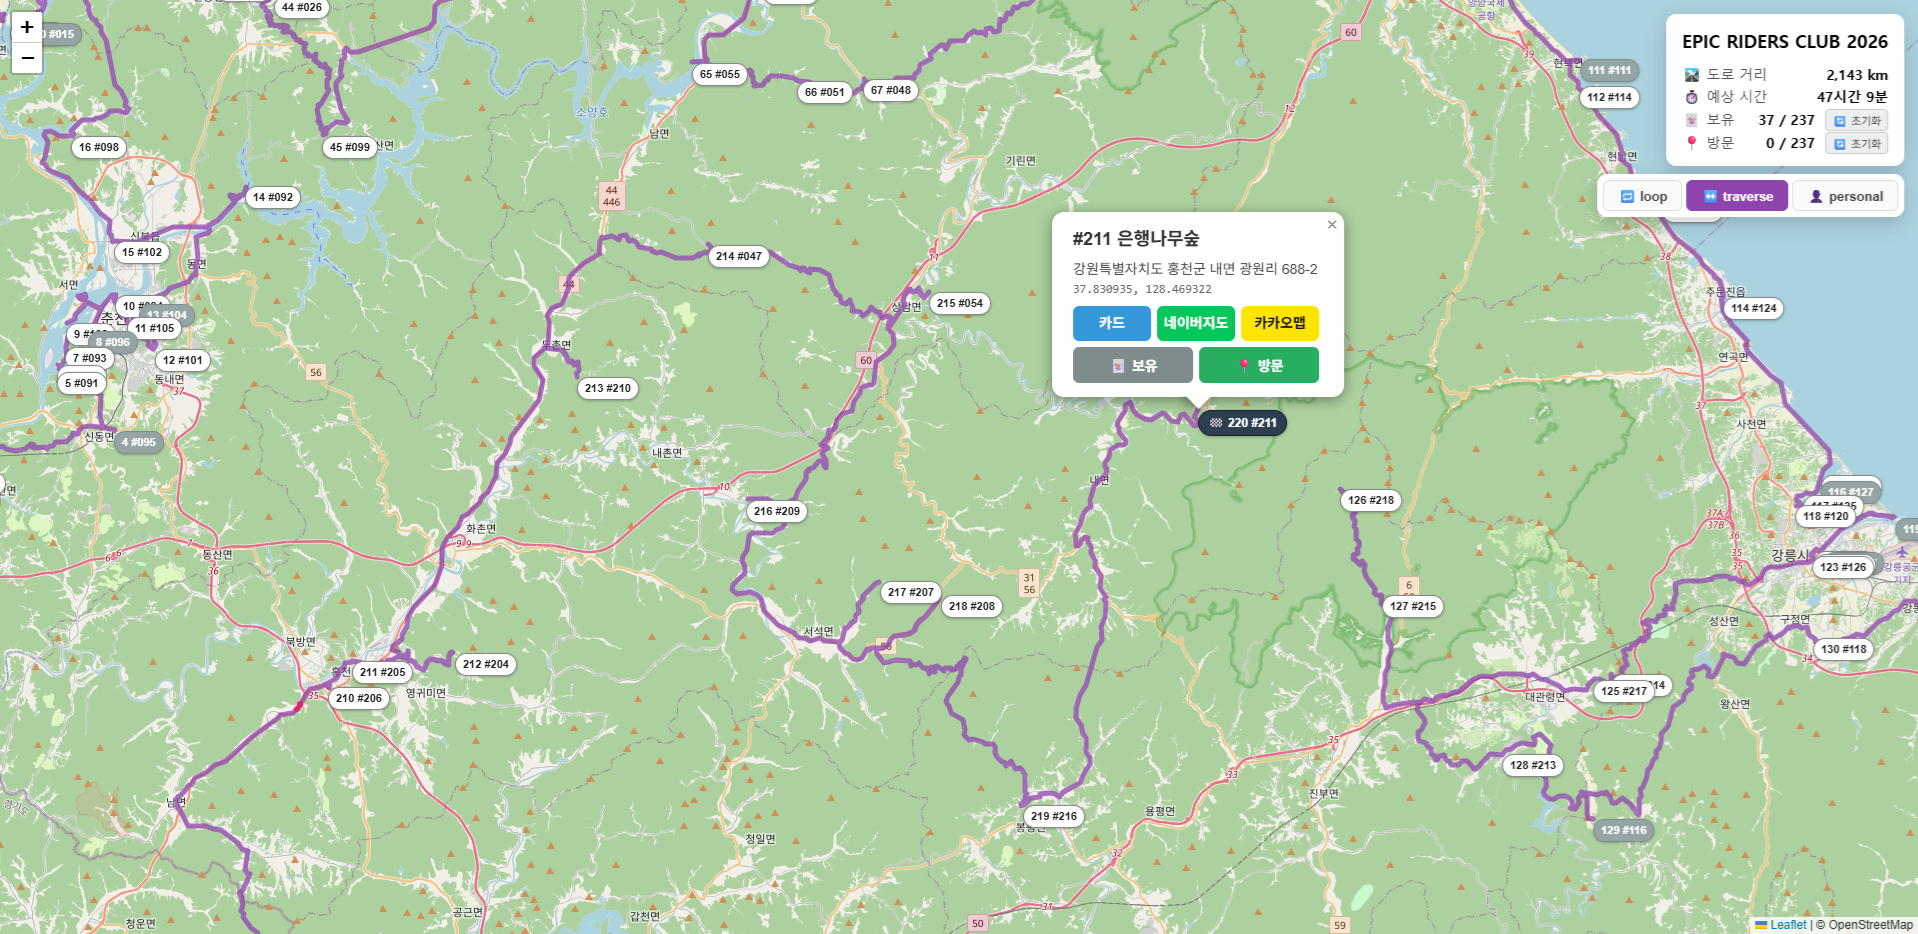
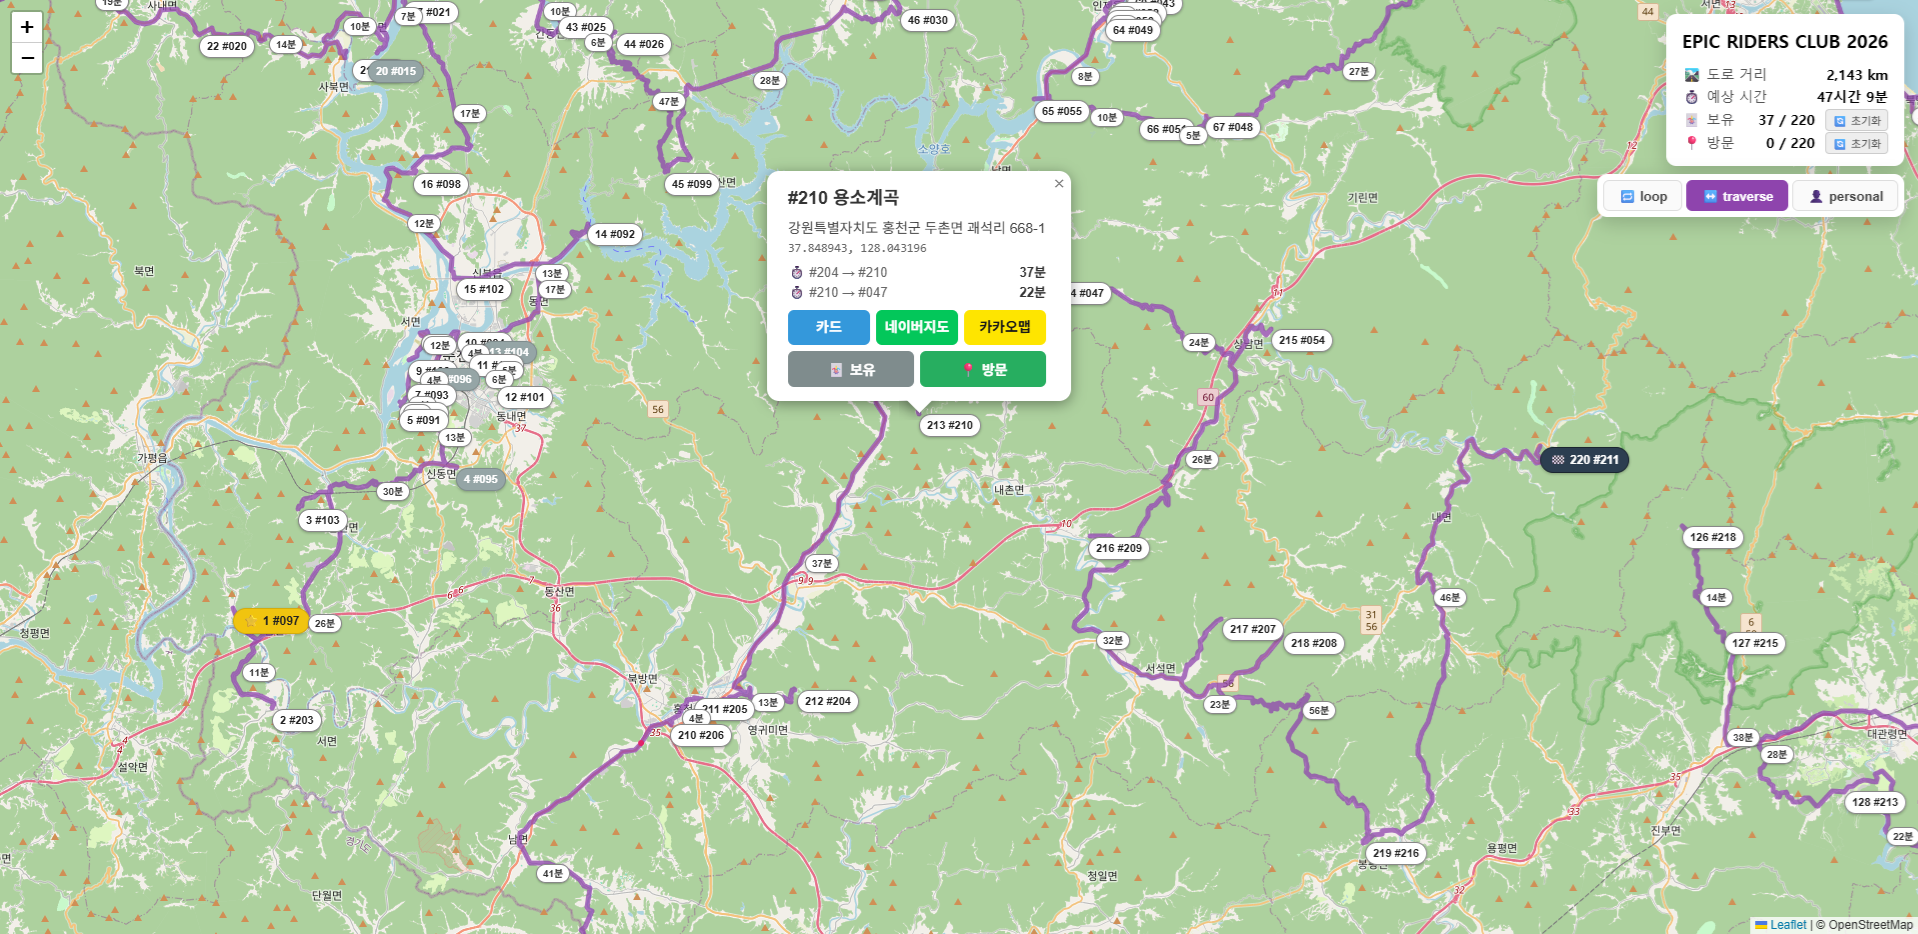
feat: display per-leg duration between card waypoints
Each card marker's popup shows the prev/next leg duration alongside
card numbers (e.g. "#014 -> #024 : 12 min"), and a small chip renders
at each leg's polyline midpoint. The chip is zoom-gated (>= 12) so
220-leg loops stay readable in mountainous regions.

stage_duration now produces per-leg
{from_idx, to_idx, distance_m, duration_s, mid_lat, mid_lng} entries
on each route. Midpoint is the path node nearest cumulative-length/2.
Unreachable legs persist with mid_lat=None so the frontend renders a
distinct "unreachable" label instead of conflating them with
0-duration short legs.

Frontend popup rows and chip layer use the el() helper (no innerHTML).
Legacy routes_motorcycle.json without the legs field renders
gracefully -- rows are skipped and the chip layer is null.

Tests added: legs length invariant (closing leg counted for loop) and
unreachable graceful path.

assets/preview.png updated to show the new popup rows.

diff --git a/build_html.py b/build_html.py
@@ -82,8 +82,16 @@ HTML = r'''<!DOCTYPE html>
  .popup-card .actions button.own.active{background:#34495e}
  .popup-card .actions button.visit{background:#27ae60}
  .popup-card .actions button.visit.active{background:#196f3d}
+ .popup-card .legs{margin:6px 0;font-size:13px;color:#333;line-height:1.5}
+ .popup-card .legs .leg-row{display:flex;justify-content:space-between;gap:8px}
+ .popup-card .legs .leg-lbl{color:#666}
+ .popup-card .legs .leg-val{font-weight:600;font-variant-numeric:tabular-nums}
  .v-popup{font-size:13px;line-height:1.5;min-width:140px}
  .v-popup b{color:#e91e63}
+ .leg-chip{background:#fff;border:1px solid #888;border-radius:10px;
+           padding:1px 6px;font-size:10px;font-weight:600;color:#333;
+           white-space:nowrap;box-shadow:0 1px 2px rgba(0,0,0,.25);
+           pointer-events:none;font-variant-numeric:tabular-nums}
 </style>
 </head>
 <body>
@@ -115,6 +123,10 @@ L.tileLayer('https://{s}.tile.openstreetmap.org/{z}/{x}/{y}.png', {maxZoom: 18, 
 
 let polyLayer = null;
 let vLayer = null;
+let chipLayer = null;
+// Tuned to 12: at zoom 11 (~76m/px @ lat 38°) 220-leg loops have midpoints
+// that overlap in mountainous regions (설악·태백). 12 (~38m/px) clears those.
+const CHIP_MIN_ZOOM = 12;
 const markerByIdx = new Map();
 
 const visited = new Set(JSON.parse(localStorage.getItem(STORAGE_KEY_VISITED) || '[]'));
@@ -139,8 +151,36 @@ function decodePolyline(str){
 
 function fmtKm(m){ return (m/1000).toFixed(0).replace(/\B(?=(\d{3})+(?!\d))/g, ',') + ' km'; }
 function fmtTime(s){ const h=Math.floor(s/3600), m=Math.floor((s%3600)/60); return h+'시간 '+m+'분'; }
+function fmtLegTime(s){
+  // Short leg duration: "0분", "12분", "1시간 5분". <30s rounds to 0분 (no leg / unreachable).
+  if (!s || s < 30) return '0분';
+  const m = Math.round(s/60);
+  if (m < 60) return m + '분';
+  const h = Math.floor(m/60), rem = m % 60;
+  return rem === 0 ? (h + '시간') : (h + '시간 ' + rem + '분');
+}
 function pad3(n){ return String(n).padStart(3, '0'); }
 function cardLabel(c){ return c >= 221 ? ('EPIC ' + pad3(c - 220)) : ('#' + pad3(c)); }
+
+function legsAroundCard(idx){
+  // Returns {prev, next} legs adjacent to this card on currentRoute.
+  // - loop: closing leg is "prev" for the start card; outgoing is "next".
+  // - traverse/personal: start has prev=null; end has next=null.
+  // Assumes each idx appears at most once in order, except the loop closing
+  // duplicate (order[0] == order[N-1]). TSP guarantees this today; relax with
+  // a lastPos branch if routes ever revisit cards.
+  const r = ROUTES[currentRoute];
+  if (!r || !r.legs || !r.legs.length) return {prev: null, next: null};
+  const order = r.order;
+  const isLoop = order.length >= 2 && order[0] === order[order.length-1];
+  const firstPos = order.indexOf(idx);
+  if (firstPos < 0) return {prev: null, next: null};
+  let prev = null, next = null;
+  if (firstPos > 0) prev = r.legs[firstPos - 1];
+  else if (isLoop) prev = r.legs[r.legs.length - 1];
+  if (firstPos < order.length - 1) next = r.legs[firstPos];
+  return {prev, next};
+}
 
 // DOM builder helper — same contract as the live builder UI's el():
 // every text value goes through textContent, every attribute via setAttribute.
@@ -199,10 +239,23 @@ function makePopup(idx){
   const naverWebUrl = 'https://map.naver.com/p/search/' + encodeURIComponent(s.addr || s.name || '');
   const kakaoUrl = 'https://map.kakao.com/link/to/'+encodeURIComponent(s.addr||'')+','+s.lat+','+s.lng;
   const cardUrl = 'https://epic-riders.cnr-korea.com/epicrideclub/find/address/';
+  const {prev, next} = legsAroundCard(idx);
+  // Unreachable legs (backend marks mid_lat=null) get a distinct "도달불가"
+  // label so they don't look like a near-zero duration. Reachable legs use
+  // fmtLegTime — including short ones that round down to "0분".
+  const legRow = leg => el('div', {class:'leg-row'}, [
+    el('span', {class:'leg-lbl'}, '⏱️ ' + cardLabel(SPOTS[leg.from_idx].card)
+                                  + ' → ' + cardLabel(SPOTS[leg.to_idx].card)),
+    el('span', {class:'leg-val'}, leg.mid_lat == null ? '도달불가' : fmtLegTime(leg.duration_s)),
+  ]);
+  const legRows = [];
+  if (prev) legRows.push(legRow(prev));
+  if (next) legRows.push(legRow(next));
   return el('div', {class:'popup-card'}, [
     el('h3', null, cardLabel(s.card) + ' ' + (s.name || '')),
     el('div', {class:'addr'}, s.addr || ''),
     el('div', {class:'coords'}, s.lat.toFixed(6) + ', ' + s.lng.toFixed(6)),
+    legRows.length ? el('div', {class:'legs'}, legRows) : null,
     el('div', {class:'links'}, [
       el('a', {href: cardUrl, target: '_blank'}, '카드'),
       el('a', {
@@ -263,15 +316,45 @@ window.resetVisited = function(){
   visited.clear(); saveVisited(); refreshAllMarkers();
 };
 
+function buildChipLayer(r){
+  // One non-interactive divIcon marker per leg, anchored at the leg midpoint.
+  // Legs with no midpoint (unreachable) or <30s duration are skipped.
+  if (!r || !r.legs) return null;
+  const group = L.featureGroup();
+  r.legs.forEach(leg => {
+    if (leg.mid_lat == null || leg.mid_lng == null) return;
+    if (!leg.duration_s || leg.duration_s < 30) return;
+    const chip = L.divIcon({
+      className: '',
+      html: el('div', {class:'leg-chip'}, fmtLegTime(leg.duration_s)),
+      iconSize: null,
+    });
+    L.marker([leg.mid_lat, leg.mid_lng], {icon: chip, interactive: false, keyboard: false})
+      .addTo(group);
+  });
+  return group;
+}
+
+function syncChipVisibility(){
+  if (!chipLayer) return;
+  const want = map.getZoom() >= CHIP_MIN_ZOOM;
+  const has = map.hasLayer(chipLayer);
+  if (want && !has) chipLayer.addTo(map);
+  else if (!want && has) map.removeLayer(chipLayer);
+}
+
 function applyRoute(key){
   if (!ROUTES[key]) return;
   currentRoute = key;
   const r = ROUTES[key];
   if (polyLayer) { map.removeLayer(polyLayer); polyLayer = null; }
   if (vLayer)    { map.removeLayer(vLayer);    vLayer = null; }
+  if (chipLayer) { map.removeLayer(chipLayer); chipLayer = null; }
   const pts = decodePolyline(r.polyline);
   const color = ROUTE_COLOR[key] || '#666';
   polyLayer = L.polyline(pts, {color, weight:5, opacity:.75}).addTo(map);
+  chipLayer = buildChipLayer(r);
+  syncChipVisibility();
 
   const vs = VIOLATIONS[key] || [];
   if (vs.length){
@@ -353,6 +436,7 @@ function repositionToggle(){
 }
 new ResizeObserver(repositionToggle).observe(document.getElementById('stats'));
 window.addEventListener('load', repositionToggle);
+map.on('zoomend', syncChipVisibility);
 
 window.addEventListener('storage', e => {
   if (e.key === STORAGE_KEY_VISITED) {

diff --git a/tests/test_phase4.py b/tests/test_phase4.py
@@ -81,7 +81,7 @@ def test_build_routes_attaches_unreachable_diagnostics(monkeypatch, tmp_path):
     monkeypatch.setattr(build_motorcycle, 'stage_tsp',
                         lambda spots, m, p, progress_cb=None: {'loop': {'order': [0, 1, 0], 'distance_m': 200}})
     monkeypatch.setattr(build_motorcycle, 'stage_poly', lambda r, nc, progress_cb=None: r)
-    monkeypatch.setattr(build_motorcycle, 'stage_duration', lambda r, e, progress_cb=None: r)
+    monkeypatch.setattr(build_motorcycle, 'stage_duration', lambda r, e, nc, progress_cb=None: r)
     monkeypatch.setattr(build_motorcycle, 'get_spots',
                         lambda extras=(): [{'card': 1, 'lat': 0.0, 'lng': 0.0},
                                            {'card': 2, 'lat': 1.0, 'lng': 1.0}])
@@ -142,3 +142,81 @@ def test_spots_cache_key_changes_on_coord_edit():
     spots[0]['lat'] = 37.01
     k2 = build_motorcycle._spots_cache_key(spots)
     assert k1 != k2
+
+
+# ---------- stage_duration: per-leg invariants ----------
+# Two regressions covered:
+#   1. legs count == len(order) - 1 (loop's closing leg included).
+#   2. Unreachable leg (pred=-9999) yields a graceful 0-filled entry with
+#      mid_lat/mid_lng=None — frontend keys off mid_lat to render '도달불가'.
+
+def _make_duration_fixture(tmp_path, monkeypatch, pred_array, src_nodes_array):
+    """Wire a fake DIJKSTRA_NPZ at tmp_path with the given pred / snapped arrays."""
+    import numpy as np
+    dijkstra_npz = tmp_path / 'd.npz'
+    np.savez(dijkstra_npz, pred=pred_array, snapped=src_nodes_array)
+    monkeypatch.setattr(build_motorcycle, 'DIJKSTRA_NPZ', dijkstra_npz)
+
+
+# Linear 3-node graph 0-1-2 (bidirectional). All edges 1000m @ 60 km/h
+# → 60s / leg. No direct 0-2 edge: 0↔2 must traverse via node 1.
+_LINEAR_NODE_COORDS = [[37.0, 127.0], [37.1, 127.1], [37.2, 127.2]]
+_LINEAR_EDGES = [
+    [0, 1, 1000.0, 60.0], [1, 0, 1000.0, 60.0],
+    [1, 2, 1000.0, 60.0], [2, 1, 1000.0, 60.0],
+]
+
+
+def test_stage_duration_legs_length_matches_order(monkeypatch, tmp_path):
+    import numpy as np
+    pred = np.array([
+        [-9999, 0,     1    ],
+        [1,     -9999, 1    ],
+        [1,     2,     -9999],
+    ], dtype=np.int32)
+    src_nodes = np.array([0, 1, 2], dtype=np.int64)
+    _make_duration_fixture(tmp_path, monkeypatch, pred, src_nodes)
+
+    routes = {
+        'loop':     {'order': [0, 1, 2, 0], 'distance_m': 4000},
+        'traverse': {'order': [0, 1, 2],    'distance_m': 2000},
+    }
+    out = build_motorcycle.stage_duration(routes, _LINEAR_EDGES, _LINEAR_NODE_COORDS)
+
+    assert len(out['loop']['legs']) == 3       # closing leg counted
+    assert len(out['traverse']['legs']) == 2   # open path
+    for r in (out['loop'], out['traverse']):
+        assert len(r['legs']) == len(r['order']) - 1
+        for leg in r['legs']:
+            assert leg['mid_lat'] is not None
+            assert leg['distance_m'] > 0
+            assert leg['duration_s'] > 0
+
+
+def test_stage_duration_unreachable_leg_graceful(monkeypatch, tmp_path):
+    import numpy as np
+    # pred[2][0] = -9999 → node 0 is unreachable starting from node 2.
+    pred = np.array([
+        [-9999, 0,     1    ],
+        [1,     -9999, 1    ],
+        [-9999, 2,     -9999],
+    ], dtype=np.int32)
+    src_nodes = np.array([0, 1, 2], dtype=np.int64)
+    _make_duration_fixture(tmp_path, monkeypatch, pred, src_nodes)
+
+    routes = {'loop': {'order': [0, 1, 2, 0], 'distance_m': 4000}}
+    out = build_motorcycle.stage_duration(routes, _LINEAR_EDGES, _LINEAR_NODE_COORDS)
+    legs = out['loop']['legs']
+
+    assert len(legs) == 3
+    closing = legs[2]
+    assert (closing['from_idx'], closing['to_idx']) == (2, 0)
+    assert closing['mid_lat'] is None
+    assert closing['mid_lng'] is None
+    assert closing['distance_m'] == 0.0
+    assert closing['duration_s'] == 0.0
+    # Reachable legs unaffected.
+    assert legs[0]['mid_lat'] is not None
+    assert legs[1]['mid_lat'] is not None
+    # Route duration_s only sums reachable legs (2 × 60s).
+    assert out['loop']['duration_s'] == pytest.approx(120.0, rel=0.01)

diff --git a/build_motorcycle.py b/build_motorcycle.py
@@ -620,7 +620,7 @@ def stage_poly(routes, node_coords, progress_cb=None):
     return routes
 
 
-def stage_duration(routes, edges, progress_cb=None):
+def stage_duration(routes, edges, node_coords, progress_cb=None):
     print('\n=== stage 6: duration ===')
     arrs = np.load(DIJKSTRA_NPZ)
     pred = arrs['pred']
@@ -631,8 +631,15 @@ def stage_duration(routes, edges, progress_cb=None):
         u, v, length, speed = edge[0], edge[1], edge[2], edge[3]
         edge_info[(u, v)] = (length, speed)
 
-    def path_duration_s(pred_row, src, dst):
-        total = 0.0
+    def path_leg_details(pred_row, src, dst):
+        """Walk predecessor chain dst->src, collect path nodes + per-edge length.
+
+        Returns (distance_m, duration_s, mid_lat, mid_lng) or None when
+        unreachable. Midpoint is the path node nearest to cumulative-length/2.
+        """
+        nodes_rev = [int(dst)]
+        seg_lengths_rev = []
+        total_dur = 0.0
         cur = int(dst)
         while cur != src and cur >= 0:
             nxt = int(pred_row[cur])
@@ -640,20 +647,55 @@ def stage_duration(routes, edges, progress_cb=None):
                 return None
             if (nxt, cur) in edge_info:
                 length, speed = edge_info[(nxt, cur)]
-                total += length / (speed * 1000.0 / 3600.0)
+                seg_lengths_rev.append(length)
+                total_dur += length / (speed * 1000.0 / 3600.0)
+            else:
+                seg_lengths_rev.append(0.0)
+            nodes_rev.append(nxt)
             cur = nxt
-        return total if cur == src else None
+        if cur != src:
+            return None
+        nodes = list(reversed(nodes_rev))
+        seg_lengths = list(reversed(seg_lengths_rev))
+        total_len = sum(seg_lengths)
+        if total_len <= 0 or len(nodes) < 2:
+            mid_idx = len(nodes) // 2
+        else:
+            half = total_len / 2.0
+            acc = 0.0
+            mid_idx = 0
+            for i, L in enumerate(seg_lengths):
+                if acc + L >= half:
+                    mid_idx = i if (half - acc) < ((acc + L) - half) else i + 1
+                    break
+                acc += L
+            else:
+                # Defensive — unreachable in practice: sum(seg_lengths) == total_len,
+                # so acc + L >= half must trigger by the final iteration.
+                mid_idx = len(nodes) - 1
+        lat, lng = node_coords[nodes[mid_idx]]
+        return total_len, total_dur, float(lat), float(lng)
 
     for key, r in routes.items():
         order = r['order']
+        legs = []
         total_s = 0.0
         for i in range(len(order)-1):
             a, b = order[i], order[i+1]
-            d = path_duration_s(pred[a], int(src_nodes[a]), int(src_nodes[b]))
-            if d is None:
+            result = path_leg_details(pred[a], int(src_nodes[a]), int(src_nodes[b]))
+            if result is None:
                 print(f'  [{key}] leg {a}->{b}: unreachable')
+                legs.append({'from_idx': a, 'to_idx': b, 'distance_m': 0.0,
+                             'duration_s': 0.0, 'mid_lat': None, 'mid_lng': None})
                 continue
-            total_s += d
+            d_m, d_s, mid_lat, mid_lng = result
+            total_s += d_s
+            legs.append({'from_idx': a, 'to_idx': b,
+                         'distance_m': round(d_m, 1),
+                         'duration_s': round(d_s, 1),
+                         'mid_lat': round(mid_lat, 7),
+                         'mid_lng': round(mid_lng, 7)})
+        r['legs'] = legs
         r['duration_s'] = total_s
         if total_s > 0:
             avg = (r['distance_m'] / 1000.0) / (total_s / 3600.0)
@@ -684,7 +726,7 @@ def build_routes(params: Optional[BuildParams] = None, progress_cb=None) -> dict
                                progress_cb=progress_cb, force=params.force_rebuild_matrix)
     routes = stage_tsp(spots, matrix_data, params, progress_cb=progress_cb)
     routes = stage_poly(routes, node_coords, progress_cb=progress_cb)
-    routes = stage_duration(routes, edges, progress_cb=progress_cb)
+    routes = stage_duration(routes, edges, node_coords, progress_cb=progress_cb)
     # Attach matrix-level diagnostics under a reserved key. Caller must pop
     # before passing routes to build_html (which iterates per-route entries).
     routes['_diagnostics'] = {